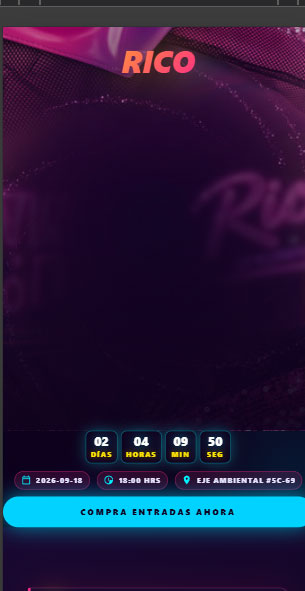
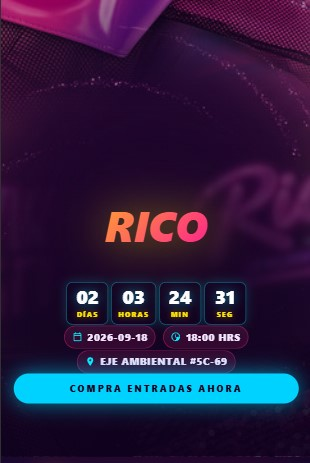
f11 arreglos

diff --git a/css/templates/fiesta/f11.css b/css/templates/fiesta/f11.css
@@ -1283,7 +1283,7 @@
     .tpl-f11 #mod-hero {
         display: flex !important;
         flex-direction: column !important;
-        justify-content: center !important;
+        justify-content: flex-start !important;
         align-items: center !important;
         min-height: 68vh !important;
         min-height: 68svh !important;
@@ -1291,7 +1291,8 @@
         background-position: center center !important;
         background-size: cover !important;
         background-repeat: no-repeat !important;
-        padding: 1.8rem 4% 1.2rem !important;
+        padding: 4.5vh 4% 1.2rem !important;
+        padding: 4.5svh 4% 1.2rem !important;
         gap: 0.7rem !important;
         width: 100% !important;
         position: relative !important;
@@ -1311,7 +1312,7 @@
     /* Titulo Arriba - grande, domina hasta el 68% del viewport (aprobado T2) */
     .tpl-f11 #event-title {
         display: block !important;
-        font-size: clamp(3rem, 15vw, 5rem) !important;
+        font-size: clamp(3.6rem, 18vw, 6.4rem) !important;
         text-align: center !important;
         line-height: 1.05;
         margin: 0 0 1rem 0 !important;
@@ -1331,7 +1332,7 @@
         align-self: center !important;
         width: 100% !important;
         margin-top: 0 !important;
-        margin-bottom: 0.6rem !important;
+        margin-bottom: 1rem !important;
         margin-left: 0 !important;
         margin-right: 0 !important;
     }
@@ -1344,8 +1345,8 @@
         justify-content: center !important;
         padding: 0 !important;
         gap: 6px !important;
-        margin-top: -26vh !important;
-        margin-top: -26svh !important;
+        margin-top: -20vh !important;
+        margin-top: -20svh !important;
     }
 
     .tpl-f11 #unified-frame .cd-block {
@@ -1362,11 +1363,11 @@
     .tpl-f11 #mod-hero-meta,
     .Tpl-F11 #mod-hero-meta {
         padding: 0 !important;
-        gap: 0.15rem 0.6rem !important;
+        gap: 0.3rem 0.6rem !important;
         justify-content: center !important;
         flex-wrap: wrap !important;
-        margin-top: -1vh !important;
-        margin-top: -1svh !important;
+        margin-top: -3vh !important;
+        margin-top: -3svh !important;
     }
 
     .tpl-f11 #mod-hero-meta .meta-item {
@@ -1382,8 +1383,8 @@
         padding: 0 !important;
         justify-content: center !important;
         margin-bottom: 0 !important;
-        margin-top: -1vh !important;
-        margin-top: -1svh !important;
+        margin-top: -4vh !important;
+        margin-top: -4svh !important;
     }
 
     .tpl-f11 #mod-hero-ctas .hero-cta-btn {
@@ -1460,7 +1461,7 @@
     }
 
     .tpl-f11 #event-title {
-        font-size: clamp(2.6rem, 14vw, 4.4rem) !important;
+        font-size: clamp(3rem, 17vw, 5.4rem) !important;
         letter-spacing: -0.01em;
     }
 
